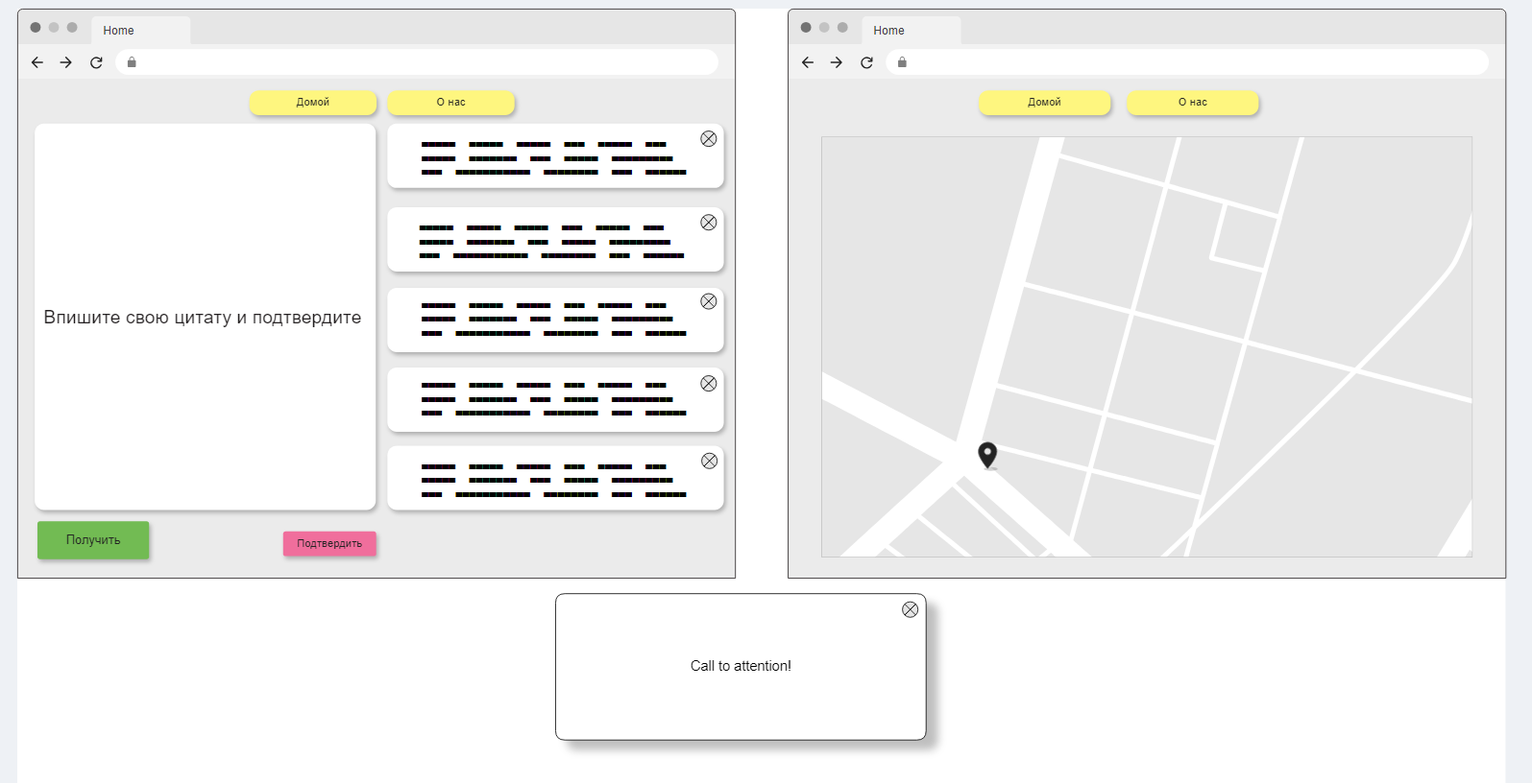
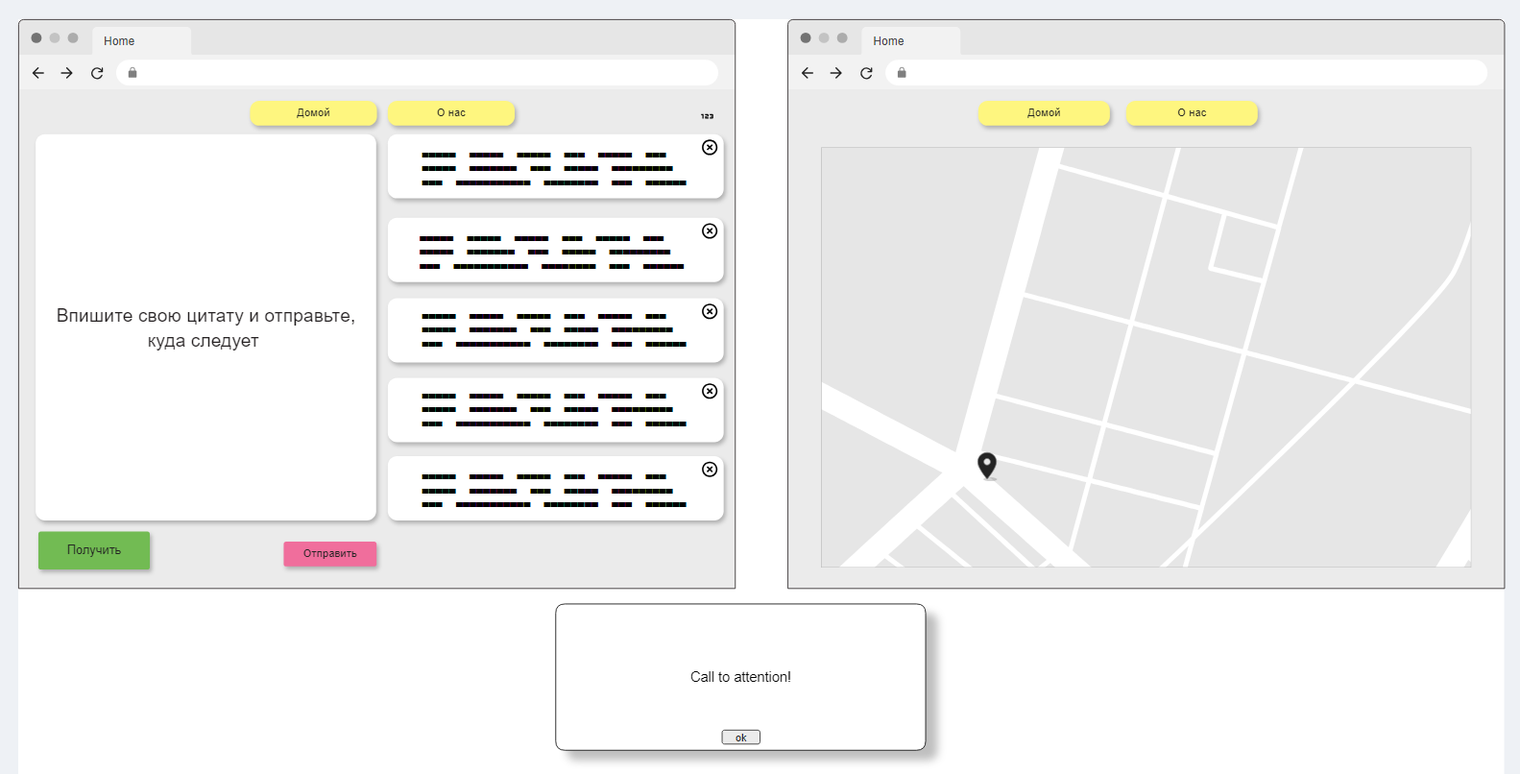
next

diff --git a/test-docs/requirements-specification-testing.md b/test-docs/requirements-specification-testing.md
@@ -16,7 +16,7 @@
 
 
 ```regexp
-что представляет собой 'иная деятельность'? 
+Что представляет собой 'иная деятельность'? 
 ```
 
 ### 3 Ссылки
@@ -24,7 +24,7 @@
 Информация к размышлению: https://okev.org/znachenie-citat-o-samorazvitii.html
 
 ```regexp
-зачем здесь эта информация?
+Зачем здесь эта информация?
 ```
 
 ## 2 Общее описание
@@ -99,19 +99,25 @@
 В приложении есть текстовое поле для введения своего текста
 
 #### Заметки:
-Поле ввода занимает левую половину экрана с кнопкой подтверждения
+Поле ввода с кнопкой подтверждения занимает левую половину экрана
 
-```regexp
-Непонятно сформулировано. Где именно кнопка?
-```
 #### 3.5 User story:
-Как клиент, я хочу иметь возможность видеть уже полученные цитаты   
+Как клиент, я хочу иметь возможность частично видеть уже полученные цитаты   
 
 #### Критерии приёмки: 
-В приложении отображаются карточки с полученными цитатами
+В приложении отображаются карточки с полученными цитатами. 
 
 #### Заметки: 
 Область с карточками в виде списка расположено в правой половине экрана
+
+#### 3.6 User story:
+Как клиент, я хочу иметь возможность прочитать уже полученную цитату полностью     
+
+#### Критерии приёмки: 
+В приложении отображается всплывающее окошко с полной цитатой. 
+
+#### Заметки: 
+Окошко всплывает при одинарном клике на карточку.
  
 #### 3.7 User story:
 Как клиент, я хочу иметь возможность редактировать карточку с цитатой     
@@ -131,7 +137,7 @@
 #### Заметки: 
 Количество цитат отображается непосредственно справа над списком с карточками 
 
-#### 3.6 User story: 
+#### 3.9 User story: 
 Как клиент, я хочу иметь возможность удалять карточки с цитатами     
 
 #### Критерии приёмки: 
@@ -139,29 +145,27 @@
 удаляется также и в базе данных
 
 #### Заметки: 
-Удаление происходит путём нажатия крестика в правом углу карточки
-
+Удаление карточек происходит путём нажатия крестика в правом углу карточки, а также смахиванием налево
 
 ### 6 Атрибуты качества
 
 #### 6.1 Требования по удобству использования
 
 
-| № | Требование                 | 	Описание                                                                                                                                                                                                                           |
-|---|----------------------------|-------------------------------------------------------------------------------------------------------------------------------------------------------------------------------------------------------------------------------------|
-| 1 | Всё в один клик            | Пользователь должен иметь возможность сделать любое из возможных действий в один клик: запросить цитату, внести свою цитату, рассмотреть уже полученные цитаты, перейти к местонахождению разработчика, перейти на главную страницу |                            |
-| 2 | Время отклика              | Время отклика системы на любые действия пользователя должно быть небольше 1 секунды, кроме первоначального запуска.                                                                                                                 |
-| 3 | Простота навигации         | Навигация должна содержать не более 2 кнопок                                                                                                                                                                                        |
-| 4 | Сообщения об ошибках       | Все сообщения об ошибках должны быть понятны и указывать на конкретные действия по исправлению, см. п. Ошибки и исключения                                                                                                          |
-| 5 | Доступность для читалок    | Все кнопки и текстовые элементы должны быть совместимы с программами экранного чтения.                                                                                                                                              |
-| 6 | Защита от случайных ошибок | Перед удалением должно запрашиваться подтверждение у пользователя.                                                                                                                                                                  |
-| 7 | Изменение цитат            | Изменение осуществляется двойным кликом на карточке и последующим редактированием во всплывающем окне                                                                                                                               |
+| № | Требование                    | 	Описание                                                                                                                                                                                                                           |
+|---|-------------------------------|-------------------------------------------------------------------------------------------------------------------------------------------------------------------------------------------------------------------------------------|
+| 1 | Всё в один клик               | Пользователь должен иметь возможность сделать любое из возможных действий в один клик: запросить цитату, внести свою цитату, рассмотреть уже полученные цитаты, перейти к местонахождению разработчика, перейти на главную страницу |                            |
+| 2 | Время отклика                 | Время отклика системы на любые действия пользователя должно быть небольше 1 секунды, кроме первоначального запуска.                                                                                                                 |
+| 3 | Простота навигации            | Навигация должна содержать не более 2 кнопок                                                                                                                                                                                        |
+| 4 | Сообщения об ошибках          | Все сообщения об ошибках должны быть понятны и указывать на конкретные действия по исправлению, см. п. Ошибки и исключения                                                                                                          |
+| 5 | Доступность для читалок       | Все кнопки и текстовые элементы должны быть совместимы с программами экранного чтения.                                                                                                                                              |
+| 6 | Изменение цитат               | Изменение осуществляется двойным кликом на карточке и последующим редактированием во всплывающем окне                                                                                                                               |
+| 7 | Детальное рассмотрение цитат  | Чтобы рассмотреть цитату в карточке, на последней нужно кликнуть 1 раз, чтобы вызвать плавающее окошко с цитатой                                                                                                                    |
 
 ```regexp
 2 Каким именно "небольшим" должно быть время запуска? Каким должно быть время "первоначального запуска"? В какой момент приложение считается запущенным?
 3 Значит ли выражение "не более 2 кнопок", что кнопка может быть одна или не быть вообще?.
 4 Здесь указан пункт об ошибках, но такого раздела с подробностями в спецификации нет
-6 Перед удалением "чего"? 
 ```
 #### 6.2 Требования к производительности
 
@@ -214,6 +218,7 @@
 ```regexp
 2 При запросе большего количества карточек, что происходит?
 3 Что значит "повторение цитаты"? Имеется в виду смысл цитаты или дословное совпадение? И как это реализуется?
+
 ```
 #### 9.2 Технологический стек
 
@@ -227,12 +232,16 @@
 | 2 | На странице "Домой" должны быть поле ввода, кнопка запроса, кнопка подтверждения, карточки с полученными цитатами. |
 | 3 | На странице "О нас" должна быть гугл-карта с местонахождением разработчика.                                        |
 | 4 | Всплывающее окно всегда появляется по центру экрана                                                                |
-| 5 | Карточки реализованы в виде списка                                                                                 |
+| 5 | Всплывающее окно закрывается кликом на кнопку снизу по центру                                                      |
+| 6 | Карточки реализованы в виде списка                                                                                 |
+| 7 | Счетчик цитат находится над карточками справа                                                                      |
+| 8 | При двойном клике на карточку всплывает окошко, где можно редактировать цитату                                     |
+| 9 | При одинарном клике на карточку всплывает окошко, где можно прочитать всю цитату                                   |
 
 ```regexp
 1 Где они расположены и на каком расстоянии друг от друга?
-4 Всплывающее окно на какой странице? "Домой" или "О нас"?
-Какое именно всплывающее окно из двух или оба?
+4 Всплывающее окно на какой странице? "Домой" или "О нас"? Какое именно всплывающее окно из двух или оба?
+
 Не указано, как при первом запуске выглядит область страницы с карточками
 ```
 #### 9.4 UI и UX
@@ -261,7 +270,7 @@
 
 #### 9.5 Работа с данными
 
-Заключается в извлечении и сохранении цитат в базу данных
+Заключается в извлечении, сохранении и изменении цитат в базе данных
 
 ```regexp
 Какие данные допустимы для ввода?
@@ -331,9 +340,10 @@
 
 #### 10.6 База данных
 
-Используется база данных SQLite
+Используется база данных
 
 ```regexp
+Какая именно база данных или любая?
 Стоит указать сколько записей допустимо хранит в базе данных и сколько занесено по умолчанию 
 ```
 

diff --git a/test-docs/check-list-requirements.md b/test-docs/check-list-requirements.md
@@ -4,35 +4,34 @@
 
 1. Проверить, что приложение реализовано на русском языке и открывается в указанных в требованиях 
 браузерах и версиях
-2. Проверить, что хостинг приложения осуществляется в соответствии с требованиями
-3. Проверить, что в корне проекта находится папка с тестами
-4. Проверить, что пользователь получает запрошенные цитаты в всплывающем окне
-5. Проверить, что цитаты соответствующей тематики
-6. Проверить, что пользователь может подробнее узнать о разработчике
-7. Проверить, что пользователь может записать в текстовом поле цитату, нажать на кнопку и она сохранится. 
-Сохранение выражается в том, что цитата может быть извлечена в будущем
-8. Проверить, что на экране с цитатами имеется счётчик цитат в локальном хранилище 
+2. Проверить, что в корне проекта находится папка с тестами
+3. Проверить, что аутентификация и авторизация отсутствуют
+4. Проверить, что в приложении есть страница с местонахождением разработчика
+5. Проверить, что пользователь получает запрошенные цитаты в всплывающем окне
+6. Проверить, что цитаты соответствующей тематики
+7. Проверить, что пользователь может подробнее узнать о разработчике
+8. Проверить, что пользователь может записать в текстовом поле цитату, нажать на кнопку и она сохранится в базе данных. 
+Цитата может быть извлечена в будущем
 9. Проверить, что полученные цитаты демонстрируются на экране в виде карточек
-10. Проверить, что в оффлайн-режиме приложение демонстрирует уже имеющиеся в локальном хранилище цитаты, а при запросе новой выдаёт понятную ошибку
-11. Проверить, что карточку с цитатой можно удалить нажатием на крестик в углу, а также смахиванием налево
+10. Проверить, что над списком с карточками  имеется счётчик цитат в локальном хранилище 
+11. Проверить, что в оффлайн-режиме приложение демонстрирует уже имеющиеся в локальном
+хранилище цитаты (если есть), а кнопка запроса становится неактивной с соответствующим пояснением
 (для возможного использования на мобильных устройствах) 
-12. Проверить, что цитаты в карточках можно редактировать
-13. Проверить, что в приложении есть страница с местонахождением разработчика
+12. Проверить, что двойным кликом на карточке цитату можно редактировать с последующим сохранением в базу данных
+13. Проверить, что одинарным нажатием на карточке можно подробнее рассмотреть цитату 
 14. Проверить, что приложение не загружается в оффлайн-режиме
-15. Проверить, что аутентификация и авторизация отсутствуют
 
 #### Проверка качества
 
 1. Проверить, что любое действие внутри приложения выполняется за один клик
 2. Проверить, что отклик на любое действие, помимо первого запуска, не превышает 1 секунду
 3. Проверить, что скринридеры распознают и проговаривают элементы интерфейса приложения
-4. Проверить, что при удалении карточки запрашивается подтверждение
 
 #### Проверка дизайна
 
-1. Проверить, что при первом запуске область для карточек на сторанице пустая
-2. Проверить, что на странице "Домой" отображаются поле для ввода, кнопка "Получить цитату"
-и кнопка подтвердить и их внешний вид соответствует макету 
+1. Проверить, что при первом запуске область для карточек на странице пустая
+2. Проверить, что на странице "Домой" отображаются поле для ввода, кнопка "Получить"
+и кнопка "Отправить" и их внешний вид соответствует макету 
 [макет](requirements-specification-testing.md#98-макет)
 3. Проверить, что на странице "О нас" отображается гугл-карта
 4. Проверить, что при разных размерах цитаты размеры карточки подстраиваются под них (достаточно проверить первые 20 цитат) 
@@ -40,7 +39,8 @@
 6. Проверить, что всплывающее окошко с цитатой на странице "Домой" располагается по центру страницы и внешний вид соответствует макету
 7. Проверить, что при нажатии на кнопку "О нас" пользователь переходит на соответствующую страницу
 8. Проверить, что при нажатии на кнопку "Домой" пользователь переходит на соответствующую страницу
-
+9. Проверить, что все остальные элементы интерфейса соответствуют макету 
+[макет](requirements-specification-testing.md#98-макет)
 
 #### Проверка UI/UX
 
@@ -53,7 +53,7 @@
 2. Проверить, что логическая схема данных соответствует реализации в базе данных
 [схема](requirements-specification-testing.md#107-логическая-модель-базы-данных)
 3. Проверить, что в json запроса и ответа имеется все поля
-4. Проверить, что количество символов в поле content не превышает 350 и не меньше 2
+4. Проверить, что количество символов в поле content не превышает 350 и не меньше 20
 5. Проверить, что вставка подобных цитат отклоняется с соответствующим сообщением об ошибке(семантическая проверка нейросетью)
 6. Проверить, что нельзя извлечь одну и ту же цитату более 1 раза
 7. Проверить, что вписанные в поле и отправленные данные сохраняются в базе данных
